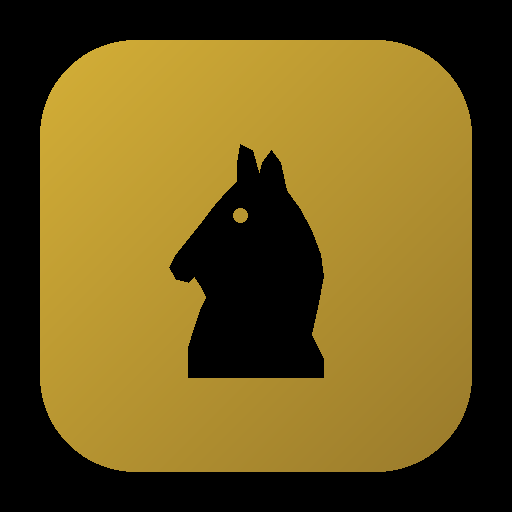
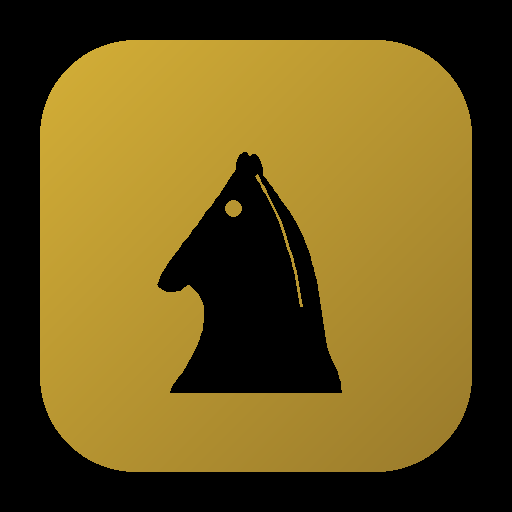
Refine knight to premium Staunton-style silhouette
Bezier curves for smooth elegant horse profile — rounded crown,
small ears, long nose, mane detail line, proper chess piece proportions.

https://claude.ai/code/session_011nGvMwbjYNBaL1dWQmbxCF

diff --git a/generate_icons.py b/generate_icons.py
@@ -1,7 +1,8 @@
 #!/usr/bin/env python3
-"""Generate Checkmate GP app icons: gold gradient bg, black knight."""
+"""Generate Checkmate GP app icons: gold gradient bg, premium black knight."""
 
 from PIL import Image, ImageDraw
+import math
 
 GOLD_LIGHT = (212, 175, 55)   # #D4AF37
 GOLD_DARK = (154, 123, 44)    # #9A7B2C
@@ -21,7 +22,6 @@ def gold_gradient(size):
     img = Image.new('RGB', (size, size))
     for y in range(size):
         for x in range(size):
-            # 135-degree gradient: top-left -> bottom-right
             t = (x + y) / (2 * size - 2)
             r = int(GOLD_LIGHT[0] + (GOLD_DARK[0] - GOLD_LIGHT[0]) * t)
             g = int(GOLD_LIGHT[1] + (GOLD_DARK[1] - GOLD_LIGHT[1]) * t)
@@ -30,56 +30,93 @@ def gold_gradient(size):
     return img
 
 
-def get_knight_points(cx, cy, scale):
-    """Return a refined chess knight silhouette."""
-    raw = [
-        # Base (flat bottom)
-        (28, 88), (72, 88),
-        # Right base up
-        (72, 82),
-        # Back of body curving up into neck
-        (68, 74), (70, 65), (72, 55),
-        # Back of neck (elegant curve)
-        (71, 48), (68, 40), (64, 33),
-        # Top of head
-        (60, 27),
-        # Right ear
-        (58, 18), (55, 14), (52, 18),
-        # Between ears
-        (51, 22),
-        # Left ear
-        (49, 14), (45, 12), (44, 18),
-        # Forehead
-        (44, 24), (40, 28),
-        # Face / nose bridge
-        (36, 33), (32, 38),
-        # Snout
-        (28, 43), (24, 48),
-        # Nose tip / nostril area
-        (22, 52), (24, 56),
-        # Mouth / lip
-        (28, 57), (30, 55),
-        # Chin
-        (32, 58),
-        # Jaw line
-        (34, 62), (32, 66),
-        # Throat going down
-        (30, 72), (28, 78), (28, 82),
-    ]
-    points = []
-    for x, y in raw:
-        px = cx + (x - 50) * scale / 50
-        py = cy + (y - 50) * scale / 50
-        points.append((px, py))
-    return points
+def bezier(p0, p1, p2, p3, steps=20):
+    """Cubic bezier curve returning list of (x,y) points."""
+    pts = []
+    for i in range(steps + 1):
+        t = i / steps
+        u = 1 - t
+        x = u**3*p0[0] + 3*u**2*t*p1[0] + 3*u*t**2*p2[0] + t**3*p3[0]
+        y = u**3*p0[1] + 3*u**2*t*p1[1] + 3*u*t**2*p2[1] + t**3*p3[1]
+        pts.append((x, y))
+    return pts
+
+
+def get_premium_knight(cx, cy, scale):
+    """Premium chess knight — classic Staunton style with smooth curves."""
+    def p(x, y):
+        return (cx + (x - 50) * scale / 50, cy + (y - 50) * scale / 50)
+
+    pts = []
+
+    # Wide stable base
+    pts += [p(24, 90), p(76, 90)]
+
+    # Right base rising into body
+    pts += bezier(p(76, 90), p(76, 86), p(74, 82), p(72, 78), 8)
+
+    # Back body — thick, solid rising curve
+    pts += bezier(p(72, 78), p(70, 70), p(70, 62), p(68, 54), 12)
+
+    # Back of neck — smooth powerful curve
+    pts += bezier(p(68, 54), p(66, 46), p(63, 38), p(58, 32), 14)
+
+    # Crown of head — rounded
+    pts += bezier(p(58, 32), p(56, 29), p(54, 26), p(52, 24), 8)
+
+    # Right ear — small, elegant
+    pts += bezier(p(52, 24), p(52, 19), p(50, 16), p(48, 18), 6)
+
+    # Left ear — small, elegant
+    pts += bezier(p(48, 18), p(46, 15), p(44, 18), p(44, 22), 6)
+
+    # Forehead — smooth dome
+    pts += bezier(p(44, 22), p(42, 25), p(40, 28), p(38, 31), 8)
+
+    # Face — elegant long nose
+    pts += bezier(p(38, 31), p(34, 36), p(30, 42), p(26, 47), 12)
+
+    # Muzzle — squared-off classic horse nose
+    pts += bezier(p(26, 47), p(23, 51), p(21, 54), p(20, 57), 8)
+
+    # Bottom of muzzle / lip
+    pts += bezier(p(20, 57), p(21, 59), p(24, 60), p(27, 59), 6)
+
+    # Chin notch
+    pts += [p(27, 59), p(29, 57)]
+
+    # Lower jaw
+    pts += bezier(p(29, 57), p(31, 58), p(33, 60), p(34, 63), 6)
+
+    # Jaw line sweeping down
+    pts += bezier(p(34, 63), p(35, 67), p(34, 72), p(32, 76), 10)
+
+    # Throat to chest
+    pts += bezier(p(32, 76), p(30, 80), p(28, 84), p(26, 86), 8)
+
+    # Close to base
+    pts += bezier(p(26, 86), p(25, 88), p(24, 89), p(24, 90), 4)
+
+    return pts
+
+
+def get_mane_points(cx, cy, scale):
+    """Mane detail — elegant curve along back of neck."""
+    def p(x, y):
+        return (cx + (x - 50) * scale / 50, cy + (y - 50) * scale / 50)
+
+    pts = []
+    # From behind the ear down the neck
+    pts += bezier(p(50, 24), p(54, 30), p(58, 38), p(60, 46), 12)
+    pts += bezier(p(60, 46), p(62, 52), p(63, 58), p(64, 64), 10)
+    return pts
 
 
 def create_icon(size, filename):
-    """Create icon: gold gradient rounded rect, black knight."""
-    # Start with black background
+    """Create icon: gold gradient rounded rect, premium black knight."""
     img = Image.new('RGB', (size, size), BLACK)
 
-    # Create gold gradient rounded rect
+    # Gold gradient rounded rect
     margin = int(size * 0.08)
     inner_size = size - 2 * margin
     corner_r = int(inner_size * 0.22)
@@ -88,20 +125,19 @@ def create_icon(size, filename):
     mask = draw_rounded_rect_mask(inner_size, corner_r)
     img.paste(grad, (margin, margin), mask)
 
-    # Black knight
+    # Premium knight silhouette
     center = size / 2
-    knight_scale = size * 0.30
+    knight_scale = size * 0.32
     knight_cy = center + size * 0.01
-    points = get_knight_points(center, knight_cy, knight_scale)
+    points = get_premium_knight(center, knight_cy, knight_scale)
 
     draw = ImageDraw.Draw(img)
     draw.polygon(points, fill=BLACK)
 
-    # Eye (gold, since knight is black)
-    eye_x = center - knight_scale * 0.10
-    eye_y = knight_cy - knight_scale * 0.30
-    eye_r = max(2, int(size * 0.014))
-    # Midpoint gold for the eye
+    # Eye
+    eye_x = center - knight_scale * 0.14
+    eye_y = knight_cy - knight_scale * 0.32
+    eye_r = max(2, int(size * 0.016))
     mid_gold = (
         (GOLD_LIGHT[0] + GOLD_DARK[0]) // 2,
         (GOLD_LIGHT[1] + GOLD_DARK[1]) // 2,
@@ -111,6 +147,12 @@ def create_icon(size, filename):
         [eye_x - eye_r, eye_y - eye_r, eye_x + eye_r, eye_y + eye_r],
         fill=mid_gold
     )
+
+    # Mane detail line
+    mane = get_mane_points(center, knight_cy, knight_scale)
+    mane_width = max(2, int(size * 0.006))
+    for i in range(len(mane) - 1):
+        draw.line([mane[i], mane[i+1]], fill=mid_gold, width=mane_width)
 
     img.save(filename, 'PNG')
     print(f"  Created {filename} ({size}x{size})")
@@ -120,7 +162,6 @@ def create_maskable_icon(size, filename):
     """Maskable icon — content within inner 80% safe zone."""
     img = Image.new('RGB', (size, size), BLACK)
 
-    # Larger margin for maskable safe zone
     margin = int(size * 0.16)
     inner_size = size - 2 * margin
     corner_r = int(inner_size * 0.22)
@@ -130,16 +171,16 @@ def create_maskable_icon(size, filename):
     img.paste(grad, (margin, margin), mask)
 
     center = size / 2
-    knight_scale = size * 0.24
+    knight_scale = size * 0.26
     knight_cy = center + size * 0.01
-    points = get_knight_points(center, knight_cy, knight_scale)
+    points = get_premium_knight(center, knight_cy, knight_scale)
 
     draw = ImageDraw.Draw(img)
     draw.polygon(points, fill=BLACK)
 
-    eye_x = center - knight_scale * 0.10
-    eye_y = knight_cy - knight_scale * 0.30
-    eye_r = max(2, int(size * 0.012))
+    eye_x = center - knight_scale * 0.14
+    eye_y = knight_cy - knight_scale * 0.32
+    eye_r = max(2, int(size * 0.014))
     mid_gold = (
         (GOLD_LIGHT[0] + GOLD_DARK[0]) // 2,
         (GOLD_LIGHT[1] + GOLD_DARK[1]) // 2,
@@ -149,6 +190,11 @@ def create_maskable_icon(size, filename):
         [eye_x - eye_r, eye_y - eye_r, eye_x + eye_r, eye_y + eye_r],
         fill=mid_gold
     )
+
+    mane = get_mane_points(center, knight_cy, knight_scale)
+    mane_width = max(2, int(size * 0.005))
+    for i in range(len(mane) - 1):
+        draw.line([mane[i], mane[i+1]], fill=mid_gold, width=mane_width)
 
     img.save(filename, 'PNG')
     print(f"  Created {filename} ({size}x{size}) [maskable]")
